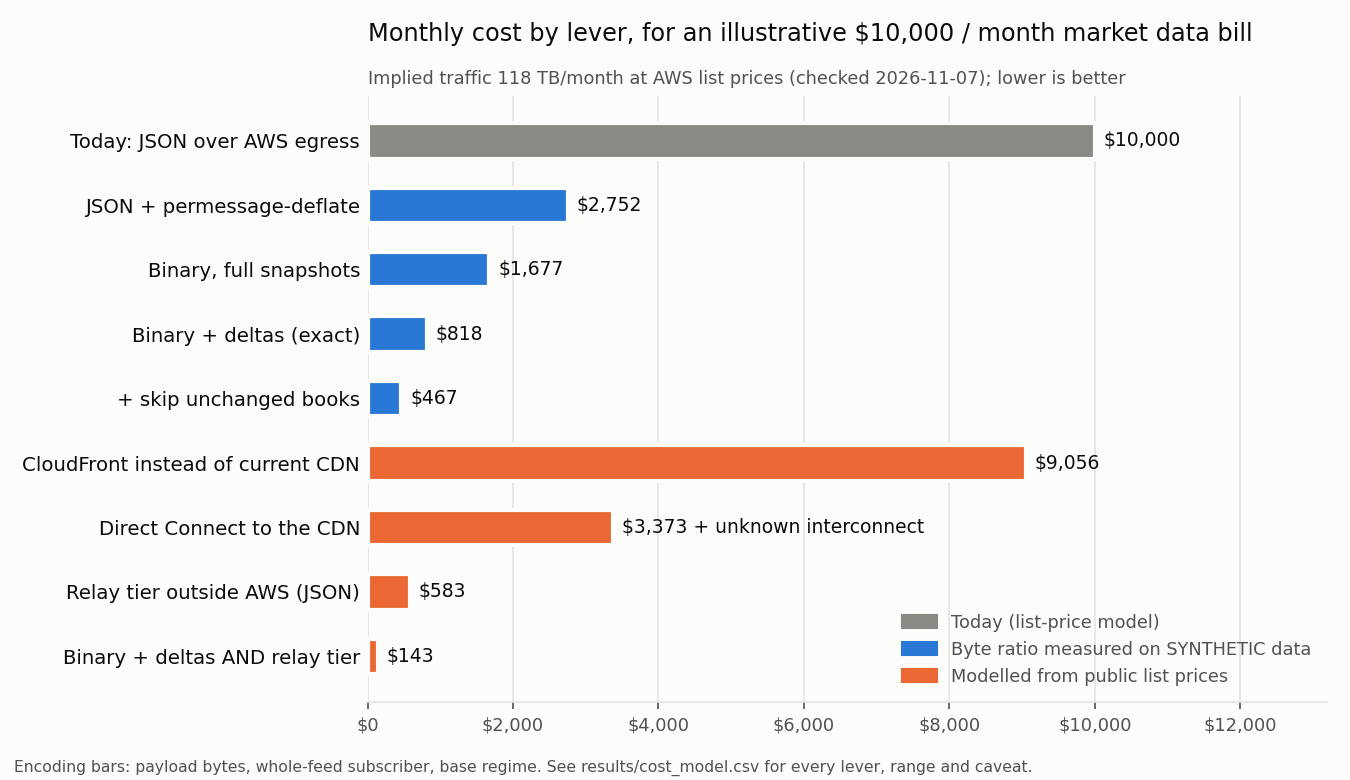
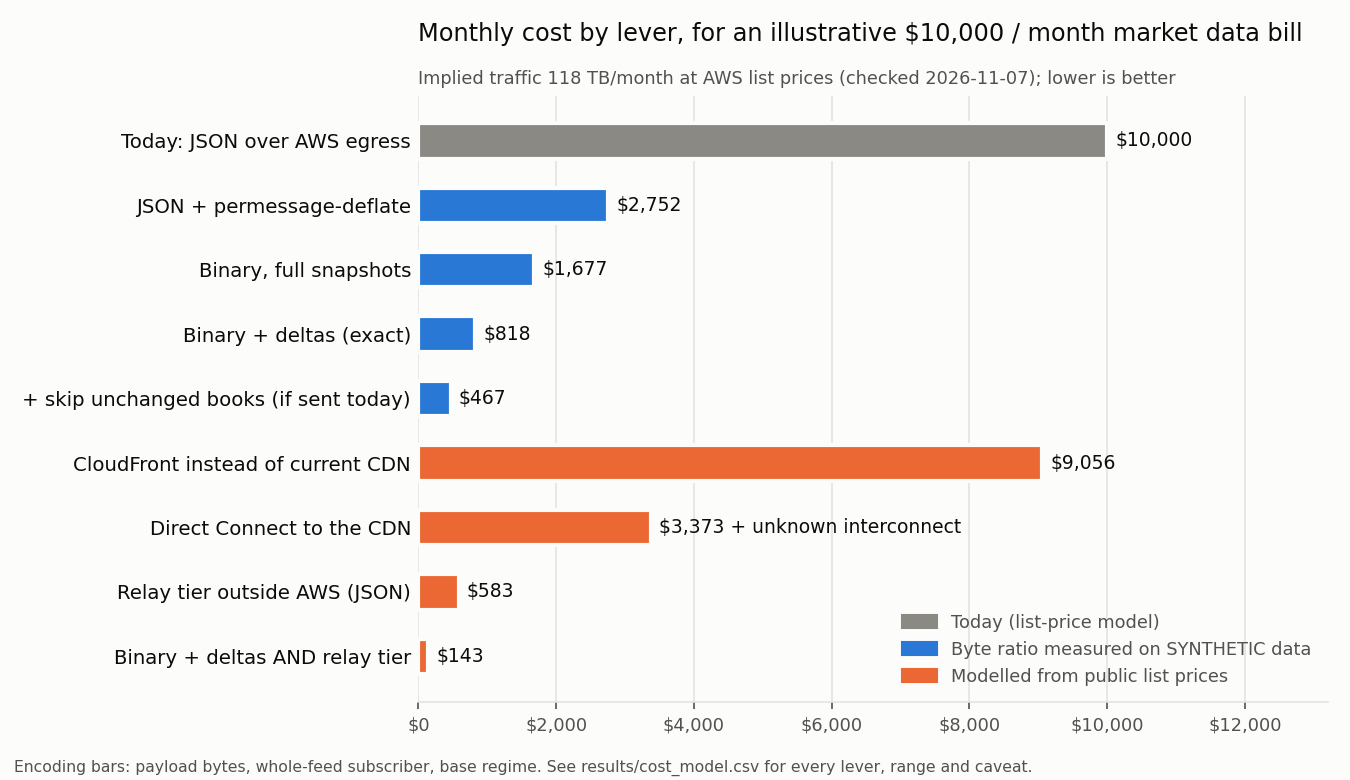
Final timing and broker run on a quiet machine; generic CDN wording

diff --git a/costmodel/cost_model.py b/costmodel/cost_model.py
@@ -159,7 +159,7 @@ def main() -> None:
             rows.append({"lever": label, "kind": kind, "ratio": base[key], "monthly_usd": prices.aws_bill(gb * base[key]), "note": note})
         dx, port = prices.direct_connect(gb)
         rows.append({"lever": "Direct Connect to the CDN", "kind": "modelled", "monthly_usd": dx,
-                     "note": f"$0.02/GB + {port} port + NLB; PLUS UNKNOWN Cloudflare interconnect (Enterprise-only, no public price) and colocation fees", "unknown_extra": True})
+                     "note": f"$0.02/GB + {port} port + NLB; PLUS UNKNOWN CDN interconnect cost (for example, Cloudflare Network Interconnect is Enterprise-only with no public price) and colocation fees", "unknown_extra": True})
         rows.append({"lever": "CloudFront instead of current CDN", "kind": "modelled", "monthly_usd": prices.cloudfront(gb),
                      "note": "AWS to CloudFront is $0/GB; CloudFront US list tiers; replaces the CDN's WAF/DDoS role; flat-rate plans cap at 50 TB unless re-priced (UNKNOWN)"})
         relay, det = prices.relay_tier(gb, feed_gb_month)
@@ -186,7 +186,7 @@ def main() -> None:
             "digitalocean_over_pool": prices.p["digitalocean"]["usd_per_gib_over_pool"] * 1024,
             "gcp_premium_na_10tib_plus": prices.p["gcp"]["usd_per_gib"][2] * 1024,
         },
-        "note": "Per-TB list prices for the host of a relay tier. Matching stays in AWS, near co-located clients.",
+        "note": "Per-TB list prices for the host of a relay tier. Matching is assumed to stay in AWS; only the public fan-out moves.",
     }
     doc = {
         "label": "MODEL. Byte ratios measured on SYNTHETIC data; prices are public list prices checked "

diff --git a/README.md b/README.md
@@ -68,24 +68,24 @@ Inbound traffic is free, so the outbound market data stream is the bill. [docs/c
 
 ### CPU and memory (MEASURED on one machine, SYNTHETIC inputs)
 
-Intel(R) Core(TM) i7-9700K CPU @ 3.60GHz, 8 cores, WSL2 kernel 6.18.54.1-microsoft-standard-WSL2, load average 0.97 0.95 0.57 at start. These are serialization and copy costs, not network latency.
+Intel(R) Core(TM) i7-9700K CPU @ 3.60GHz, 8 cores, WSL2 kernel 6.18.54.1-microsoft-standard-WSL2, load average 1.05 2.18 1.56 at start. These are serialization and copy costs, not network latency.
 
 | Per message | CPU ns |
 |---|---:|
 | Parse JSON into a generic value (what a JSON client pays) | 1,868 |
-| Transcode JSON to binary + deltas (gateway, once per message) | 1,684 |
+| Transcode JSON to binary + deltas (gateway, once per message) | 1,739 |
 | Decode binary and apply to local state (client) | 211 |
-| Decode, apply and rebuild the exact JSON text | 716 |
-| permessage-deflate, per connection | 12,224 |
-| zstd with dictionary, once per message | 1,544 |
-| Verify one order signature (secp256k1 recover, pure Rust) | 165,273 |
+| Decode, apply and rebuild the exact JSON text | 741 |
+| permessage-deflate, per connection | 13,466 |
+| zstd with dictionary, once per message | 1,615 |
+| Verify one order signature (secp256k1 recover, pure Rust) | 169,750 |
 
 | Fan-out, CPU per connection per second of feed | microseconds |
 |---|---:|
-| Binary: transcode once, copy shared bytes | 33.7 |
-| JSON as is: copy shared bytes | 92.0 |
-| permessage-deflate without context: compress once, copy | 318.2 |
-| permessage-deflate with context: compress per connection | 24,816.0 |
+| Binary: transcode once, copy shared bytes | 34.6 |
+| JSON as is: copy shared bytes | 102.2 |
+| permessage-deflate without context: compress once, copy | 366.3 |
+| permessage-deflate with context: compress per connection | 26,087.2 |
 
 Per-connection compressor state, live heap after traffic: 376 KiB for permessage-deflate with context. Binary encode-once keeps no per-connection codec state.
 
@@ -93,10 +93,10 @@ Per-connection compressor state, live heap after traffic: 376 KiB for permessage
 
 | Server | Byte-exact (7 hostile payloads, PUBLISH and SET/GET) | p50 / p99 publish-to-receive, 2000 msg/s | Pipelined ceiling, binary msgs/s |
 |---|---|---|---:|
-| Dragonfly [0;32mv2.1 | yes, all | 212 / 1009 us | 549,185 |
-| Redis 7.0.15 | yes, all | 196 / 939 us | 905,477 |
+| Dragonfly v2.1 | yes, all | 198 / 896 us | 489,360 |
+| Redis 7.0.15 | yes, all | 177 / 292 us | 744,323 |
 
-The synthetic whole feed is 1,960.0 messages per second.
+The synthetic whole feed is 1,960 messages per second.
 
 ### Decoder fuzzing
 
@@ -112,7 +112,7 @@ List prices checked 2026-11-07 are an upper bound. Bills are illustrative. Encod
 | Today: JSON over AWS egress | $1,000 | $10,000 | $30,000 |
 | Binary, full snapshots | $154 | $1,677 | $6,045 |
 | Binary + deltas (exact) | $77 | $818 | $3,028 |
-| + skip unchanged books | $47 | $467 | $1,740 |
+| + skip unchanged books (if sent today) | $47 | $467 | $1,740 |
 | + conflate books to 1 s (opt-in) | $38 | $359 | $1,348 |
 | JSON + permessage-deflate | $251 | $2,752 | $9,515 |
 | JSON + zstd dictionary | $282 | $3,097 | $10,627 |

diff --git a/results/summary.md b/results/summary.md
@@ -23,24 +23,24 @@
 
 ### CPU and memory (MEASURED on one machine, SYNTHETIC inputs)
 
-Intel(R) Core(TM) i7-9700K CPU @ 3.60GHz, 8 cores, WSL2 kernel 6.18.54.1-microsoft-standard-WSL2, load average 0.97 0.95 0.57 at start. These are serialization and copy costs, not network latency.
+Intel(R) Core(TM) i7-9700K CPU @ 3.60GHz, 8 cores, WSL2 kernel 6.18.54.1-microsoft-standard-WSL2, load average 1.05 2.18 1.56 at start. These are serialization and copy costs, not network latency.
 
 | Per message | CPU ns |
 |---|---:|
 | Parse JSON into a generic value (what a JSON client pays) | 1,868 |
-| Transcode JSON to binary + deltas (gateway, once per message) | 1,684 |
+| Transcode JSON to binary + deltas (gateway, once per message) | 1,739 |
 | Decode binary and apply to local state (client) | 211 |
-| Decode, apply and rebuild the exact JSON text | 716 |
-| permessage-deflate, per connection | 12,224 |
-| zstd with dictionary, once per message | 1,544 |
-| Verify one order signature (secp256k1 recover, pure Rust) | 165,273 |
+| Decode, apply and rebuild the exact JSON text | 741 |
+| permessage-deflate, per connection | 13,466 |
+| zstd with dictionary, once per message | 1,615 |
+| Verify one order signature (secp256k1 recover, pure Rust) | 169,750 |
 
 | Fan-out, CPU per connection per second of feed | microseconds |
 |---|---:|
-| Binary: transcode once, copy shared bytes | 33.7 |
-| JSON as is: copy shared bytes | 92.0 |
-| permessage-deflate without context: compress once, copy | 318.2 |
-| permessage-deflate with context: compress per connection | 24,816.0 |
+| Binary: transcode once, copy shared bytes | 34.6 |
+| JSON as is: copy shared bytes | 102.2 |
+| permessage-deflate without context: compress once, copy | 366.3 |
+| permessage-deflate with context: compress per connection | 26,087.2 |
 
 Per-connection compressor state, live heap after traffic: 376 KiB for permessage-deflate with context. Binary encode-once keeps no per-connection codec state.
 
@@ -48,10 +48,10 @@ Per-connection compressor state, live heap after traffic: 376 KiB for permessage
 
 | Server | Byte-exact (7 hostile payloads, PUBLISH and SET/GET) | p50 / p99 publish-to-receive, 2000 msg/s | Pipelined ceiling, binary msgs/s |
 |---|---|---|---:|
-| Dragonfly [0;32mv2.1 | yes, all | 212 / 1009 us | 549,185 |
-| Redis 7.0.15 | yes, all | 196 / 939 us | 905,477 |
+| Dragonfly v2.1 | yes, all | 198 / 896 us | 489,360 |
+| Redis 7.0.15 | yes, all | 177 / 292 us | 744,323 |
 
-The synthetic whole feed is 1,960.0 messages per second.
+The synthetic whole feed is 1,960 messages per second.
 
 ### Decoder fuzzing
 
@@ -67,7 +67,7 @@ List prices checked 2026-11-07 are an upper bound. Bills are illustrative. Encod
 | Today: JSON over AWS egress | $1,000 | $10,000 | $30,000 |
 | Binary, full snapshots | $154 | $1,677 | $6,045 |
 | Binary + deltas (exact) | $77 | $818 | $3,028 |
-| + skip unchanged books | $47 | $467 | $1,740 |
+| + skip unchanged books (if sent today) | $47 | $467 | $1,740 |
 | + conflate books to 1 s (opt-in) | $38 | $359 | $1,348 |
 | JSON + permessage-deflate | $251 | $2,752 | $9,515 |
 | JSON + zstd dictionary | $282 | $3,097 | $10,627 |

diff --git a/docs/cost-model.md b/docs/cost-model.md
@@ -11,7 +11,7 @@ monthly bill  ~  subscribers x messages/s x bytes/message x seconds x $/GB
 - **AWS data transfer out, us-east-1:** $0.09/GB for the first 10 TB, $0.085 for the next 40 TB, $0.07 for the next 100 TB, and $0.05 after that. The first 100 GB are free.
 - **AWS data transfer in:** $0.00/GB. This is why orders, which flow inward, barely affect the transfer bill.
 - **NLB:** $0.0225 per hour, plus $0.006 per NLCU-hour. For TCP, one NLCU is 1 GB of processed bytes per hour (or 800 new connections per second, or 100,000 active connections, whichever is highest).
-- **Direct Connect:** $0.02/GB out, plus port hours ($0.30/h for 1G, $2.25/h for 10G). It also needs an interconnect with the CDN. Cloudflare's is listed as Enterprise-only, with no public price, so that cost is **unknown**.
+- **Direct Connect:** $0.02/GB out, plus port hours ($0.30/h for 1G, $2.25/h for 10G). It also needs a physical interconnect with the CDN, which is **unknown**: Cloudflare's, for example, is listed as Enterprise-only, with no public price.
 - **CloudFront:** AWS to CloudFront is $0.00/GB. CloudFront's US list tiers start at $0.085/GB. It supports WebSockets on any distribution. Flat-rate plans include up to 50 TB, and whether WebSocket traffic fits those plans is **unknown**.
 - **Hetzner:** overage of €1 ($1.20 by Hetzner's own figure) per TB beyond the included traffic. Included traffic is 20 TB in the EU, 1 to 8 TB in the US (depending on plan), and unlimited on 1 Gbit dedicated servers.
 - **Others:** Oracle (10 TB free, then $0.0085/GB), DigitalOcean ($0.01/GiB over the pooled allowance), GCP ($0.08 to $0.12/GiB to North America).
